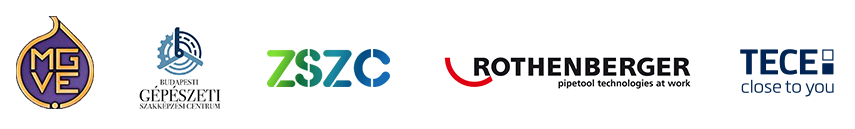
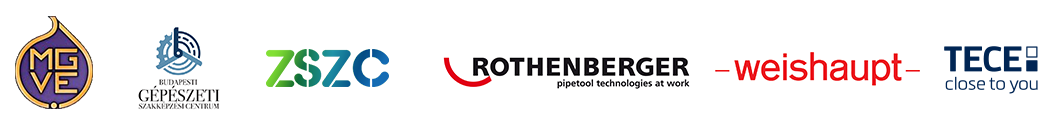
v2.2

Changed region(s): [[0.0, 0.124, 0.9731, 0.8682]]

diff --git a/plumbskills.html b/plumbskills.html
@@ -92,61 +92,101 @@
             </nav>
         </header>
         <main class="container-fluid p-0 overflow-hidden">
-
-
             <!--  Rólunk -->
-                <div class="container">
-                    <p>&nbsp;</p><p></p>
-                    <h2>A PlumbSkills szervezetről</h2>
-                    <div class="section-content">
-                        <p>
-                            A PlumbSkills egy szakmai szervezet, melynek célja a
-                            tehetséggondozás és a képzés fejlesztése az
-                            épületgépészet ágazathoz tartozó szakmákban. A
-                            PlumbSkills legfontosabb feladata a szakmai
-                            világbajnokság (<strong
-                                ><a
-                                    href="https://worldskills.org"
-                                    target="_blank"
-                                    >WorldSkills</a
-                                ></strong
-                            >) és a szakmai Európa-bajnokság (<strong
-                                ><a
-                                    href="https://worldskillseurope.org"
-                                    target="_blank"
-                                    >EuroSkills</a
-                                ></strong
-                            >) hazai válogatóinak megrendezése, valamint a
-                            kiválasztott versenyzők felkészítése a
-                            világversenyre.
-                        </p>
-                        <p>
-                            A PlumbSkills koordinátora a
-                            <strong
-                                >Magyar Gázipari Vállakozók Egyesülete
-                                (MGVE)</strong
-                            >, kiemelt támogatói a
-                            <strong>
-                                >Budapesti Gépészeti Szakkképzési
-                                Centrum</strong
-                            >
-                            , valamint a
-                            <strong>Zalaegerszegi Szakképzési Centrum</strong>.
-                            A PlubmSkills további támogatója a
-                            <strong>Rothenberger</strong>, a
-                            <strong>Weishaupt Hőtechnikai Kft.</strong> és a
-                            <strong>TECE</strong>.
-                        </p>
-                        <p class="text-center">
-                            <img
-                                src="/assets/images/plumbskills_tamogatok.png"
-                                alt=""
-                            />
-                        </p>
-
+            <div class="container">
+                <p>&nbsp;</p>
+                <p></p>
+                <h2>A PlumbSkills szervezetről</h2>
+                <h3>PlumbSkills</h3>
+                <div class="section-content">
+                    <p>
+                        A PlumbSkills egy szakmai szervezet, melynek célja a
+                        tehetséggondozás és a képzés fejlesztése az
+                        épületgépészet ágazathoz tartozó szakmákban. A
+                        PlumbSkills legfontosabb feladata a szakmai
+                        világbajnokság (<strong
+                            ><a href="https://worldskills.org" target="_blank"
+                                >WorldSkills</a
+                            ></strong
+                        >) és a szakmai Európa-bajnokság (<strong
+                            ><a
+                                href="https://worldskillseurope.org"
+                                target="_blank"
+                                >EuroSkills</a
+                            ></strong
+                        >) hazai válogatóinak megrendezése, valamint a
+                        kiválasztott versenyzők felkészítése a világversenyre.
+                    </p>
+                    <h3>A PlumbSkills támogatói</h3>
+                    <p>
+                        A PlumbSkills koordinátora a
+                        <strong
+                            >Magyar Gázipari Vállakozók Egyesülete
+                            (MGVE)</strong
+                        >, kiemelt támogatói a
+                        <strong>
+                            Budapesti Gépészeti Szakkképzési Centrum</strong
+                        >
+                        , valamint a
+                        <strong>Zalaegerszegi Szakképzési Centrum</strong>. A
+                        PlubmSkills további támogatója a
+                        <strong>Rothenberger</strong>, a
+                        <strong>Weishaupt Hőtechnikai Kft.</strong> és a
+                        <strong>TECE</strong>.
+                    </p>
+                    <p class="text-center">
+                        <img
+                            src="/assets/images/plumbskills_tamogatok.png"
+                            alt=""
+                        />
+                    </p>
+                    <h3>A PlumbSkills operatív csapata</h3>
+                </div>
+                <!-- PlumbSkills Team -->
+                <div class="row team-row">
+                    <div class="col-md-2 cell-img">
+                        <img
+                            src="/assets/images/szigetvari_csilla.jpg"
+                            alt=""
+                        />
+                    </div>
+                    <div class="col-md-4">
+                        <strong>Szigetvári Csilla</strong> <br />
+                        okleveles gépészmérnők <br />
+                        WorldSkills szakértő és EuroSkills helyettes vezető
+                        szakértő<br />
+                        WorldSkills és EuroSkills felkészítő
+                    </div>
+                    <div class="col-md-2 cell-img">
+                        <img src="/assets/images/versits_tamas.jpg" alt="" />
+                    </div>
+                    <div class="col-md-4">
+                        <strong>Versits Tamás</strong> <br />
+                        okleveles gépészmérnők <br />
+                        elnök, Magyar Gázipari Vállalkozók Szövetsége<br>
+                        WorldSkills és EuroSkills felkészítő
                     </div>
                 </div>
+                <div class="row team-row">
+                    <div class="col-md-2 cell-img">
+                        <img
+                            src="/assets/images/szunyogh_matild.jpg"
+                            alt=""
+                        />
+                    </div>
+                    <div class="col-md-4">
+                        <strong>Szunyogh  Matild</strong> <br />
+                        marketing és kommunikáció szakértő
+                         <br />
+                    </div>
+                    <div class="col-md-2 cell-img">
 
+                    </div>
+                    <div class="col-md-4">
+
+                    </div>
+                </div>                
+            </div>
         </main>
         <footer>
             <div class="container text-center">

diff --git a/index.html b/index.html
@@ -97,6 +97,10 @@
                 <div class="hero-image">
                     <div class="hero-text">
                         <h1><span class="h1-vekony">plumb</span>skills</h1>
+                        <div class="szlogen">
+                            az épületgépész szakma jövőjéért és a
+                            <br />tehetséges fiatal szakemberekért
+                        </div>
                     </div>
                 </div>
             </section>
@@ -275,6 +279,9 @@
                             </div>
                         </div>
                     </div>
+                    <div class="btn btn-outline-secondary reszletek">
+                        Összes hír
+                    </div>
                 </div>
             </section>
 
@@ -283,15 +290,30 @@
                 <div class="container">
                     <h2>WolrdSkills Hungary</h2>
                     <div class="section-content">
-                        <p>
-                            A Worldskills International szervezetében a
-                            <strong>Magyar Kereskedelmi és Iparkamara</strong>
-                            látja el a WorldSkills és EuroSkills versenyekkel
-                            kapcsolatos feladatokat, delegálja a versenyzőket és
-                            a szakértőket a nemzetközi versenyekre. Ennek
-                            összefogására hozták létre a
-                            <strong>WorldSkills Hungary</strong> programot.
-                        </p>
+                        <div class="row">
+                            <div class="col-md-10">
+                                <p>
+                                    A Worldskills International szervezetében a
+                                    <strong
+                                        >Magyar Kereskedelmi és
+                                        Iparkamara</strong
+                                    >
+                                    látja el a WorldSkills és EuroSkills
+                                    versenyekkel kapcsolatos feladatokat,
+                                    delegálja a versenyzőket és a szakértőket a
+                                    nemzetközi versenyekre. Ennek összefogására
+                                    hozták létre a
+                                    <strong>WorldSkills Hungary</strong>
+                                    programot.
+                                </p>
+                            </div>
+                            <div class="col-md-2 cell-img">
+                                <img
+                                    src="/assets/images/worldskillshungary.jpg"
+                                    alt=""
+                                />
+                            </div>
+                        </div>
                     </div>
                     <a href="https://worldskillshungary.hu" target="_blank">
                         <div class="btn btn-outline-secondary reszletek">
@@ -331,7 +353,7 @@
             <!--  Galéria -->
             <section id="galeria">
                 <div class="container">
-                    <h2>Galéria</h2>
+                    <h2>Fotó- és videógaléria</h2>
                     <div class="section-content">
                         <p>
                             A hazai válogatóversenyeken és a nemzetközi
@@ -362,8 +384,22 @@
             </section>
         </main>
         <footer>
-            <div class="container text-center">
-                &copy; PlumbSkills | Minden jog fenntartva
+            <div class="container text-center social-icons">
+                <p>
+                    <a
+                        href="https://www.facebook.com/Plumbskillshu-412566136191015"
+                        target="_blank"
+                    >
+                        <img src="/assets/images/fb_icon.png" alt="" />
+                    </a>
+                    <a
+                        href="https://www.youtube.com/channel/UCrmzrqRqhW6w51QLP8zlZug"
+                        target="_blank"
+                    >
+                        <img src="/assets/images/youtube_icon.png" alt="" />
+                    </a>
+                </p>
+                <p>&copy; PlumbSkills 2021 | Minden jog fenntartva</p>
             </div>
         </footer>
         <!-- Optional JavaScript; choose one of the two! -->

diff --git a/assets/css/main.css b/assets/css/main.css
@@ -59,6 +59,11 @@ h2 {
           transform: translate(-50%, -50%);
 }
 
+.hero-text .szlogen {
+  font-size: 1.3rem;
+  font-style: italic;
+}
+
 footer {
   background-color: #2e455c;
   min-height: 100px;
@@ -121,5 +126,25 @@ p {
 
 .btn-secondary {
   /* background-color: #D69E6B; */
+}
+
+/*  @media (min-width: 1200px) {
+    .container{
+        max-width: 1200px;
+    }
+    .nav > .container {
+        max-width: 1200px;
+    }
+} */
+.cell-img img {
+  max-width: 100%;
+}
+
+.team-row {
+  margin-top: 25px;
+}
+
+.social-icons img {
+  height: 40px;
 }
 /*# sourceMappingURL=main.css.map */

diff --git a/assets/css/main.scss b/assets/css/main.scss
@@ -62,6 +62,10 @@ h2 {
     top: 50%;
     left: 50%;
     transform: translate(-50%, -50%);
+    .szlogen {
+        font-size: 1.3rem;
+        font-style: italic;
+    }
 }
 
 
@@ -131,3 +135,24 @@ footer {
  .btn-secondary {
     /* background-color: #D69E6B; */
  }
+
+/*  @media (min-width: 1200px) {
+    .container{
+        max-width: 1200px;
+    }
+    .nav > .container {
+        max-width: 1200px;
+    }
+} */
+
+.cell-img img {
+    max-width: 100%
+}
+
+.team-row {
+    margin-top: 25px
+}
+
+.social-icons img {
+    height: 40px;
+}
